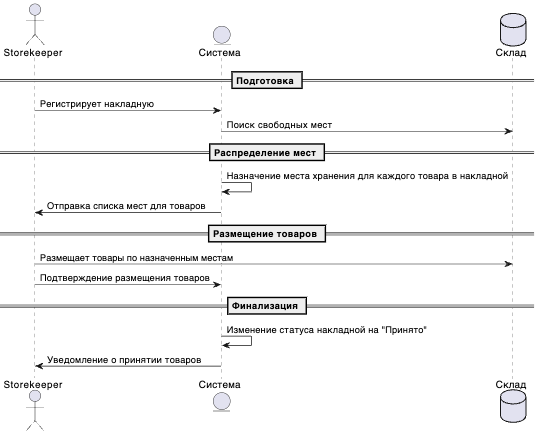
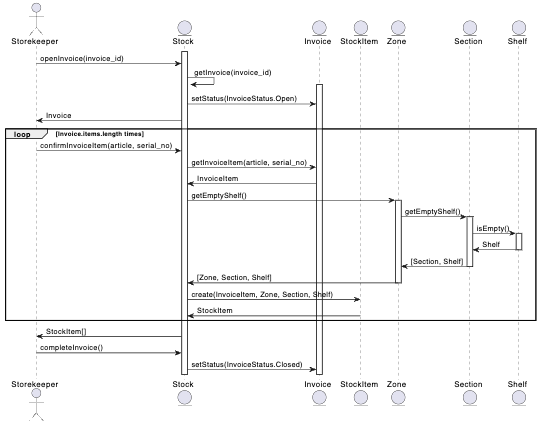
Change use-case

diff --git a/warehouse/Прецеденты/Получение товара/Диаграмма_последовательности.md b/warehouse/Прецеденты/Получение товара/Диаграмма_последовательности.md
@@ -8,22 +8,31 @@ entity Zone
 entity Section
 entity Shelf
 
+activate Stock
+
 Storekeeper -> Stock : openInvoice(invoice_id)
 Stock -> Stock : getInvoice(invoice_id)
+activate Invoice
 Stock -> Invoice : setStatus(InvoiceStatus.Open)
 
-Stock -> Storekeeper : Invoice(invoice_id)
+Stock -> Storekeeper : Invoice
 
 loop Invoice.items.length times
     Storekeeper -> Stock : confirmInvoiceItem(article, serial_no)
     Stock -> Invoice : getInvoiceItem(article, serial_no)
     Invoice -> Stock : InvoiceItem
     Stock -> Zone : getEmptyShelf()
+    activate Zone
     Zone -> Section : getEmptyShelf()
+    activate Section
     Section -> Shelf : isEmpty()
+    activate Shelf
     Shelf -> Section : Shelf
-    Section -> Zone : (Section, Shelf)
-    Zone -> Stock : (Zone, Section, Shelf)
+    deactivate Shelf
+    Section -> Zone : [Section, Shelf]
+    deactivate Section
+    Zone -> Stock : [Zone, Section, Shelf]
+    deactivate Zone
     Stock -> StockItem : create(InvoiceItem, Zone, Section, Shelf)
     StockItem -> Stock : StockItem
 end
